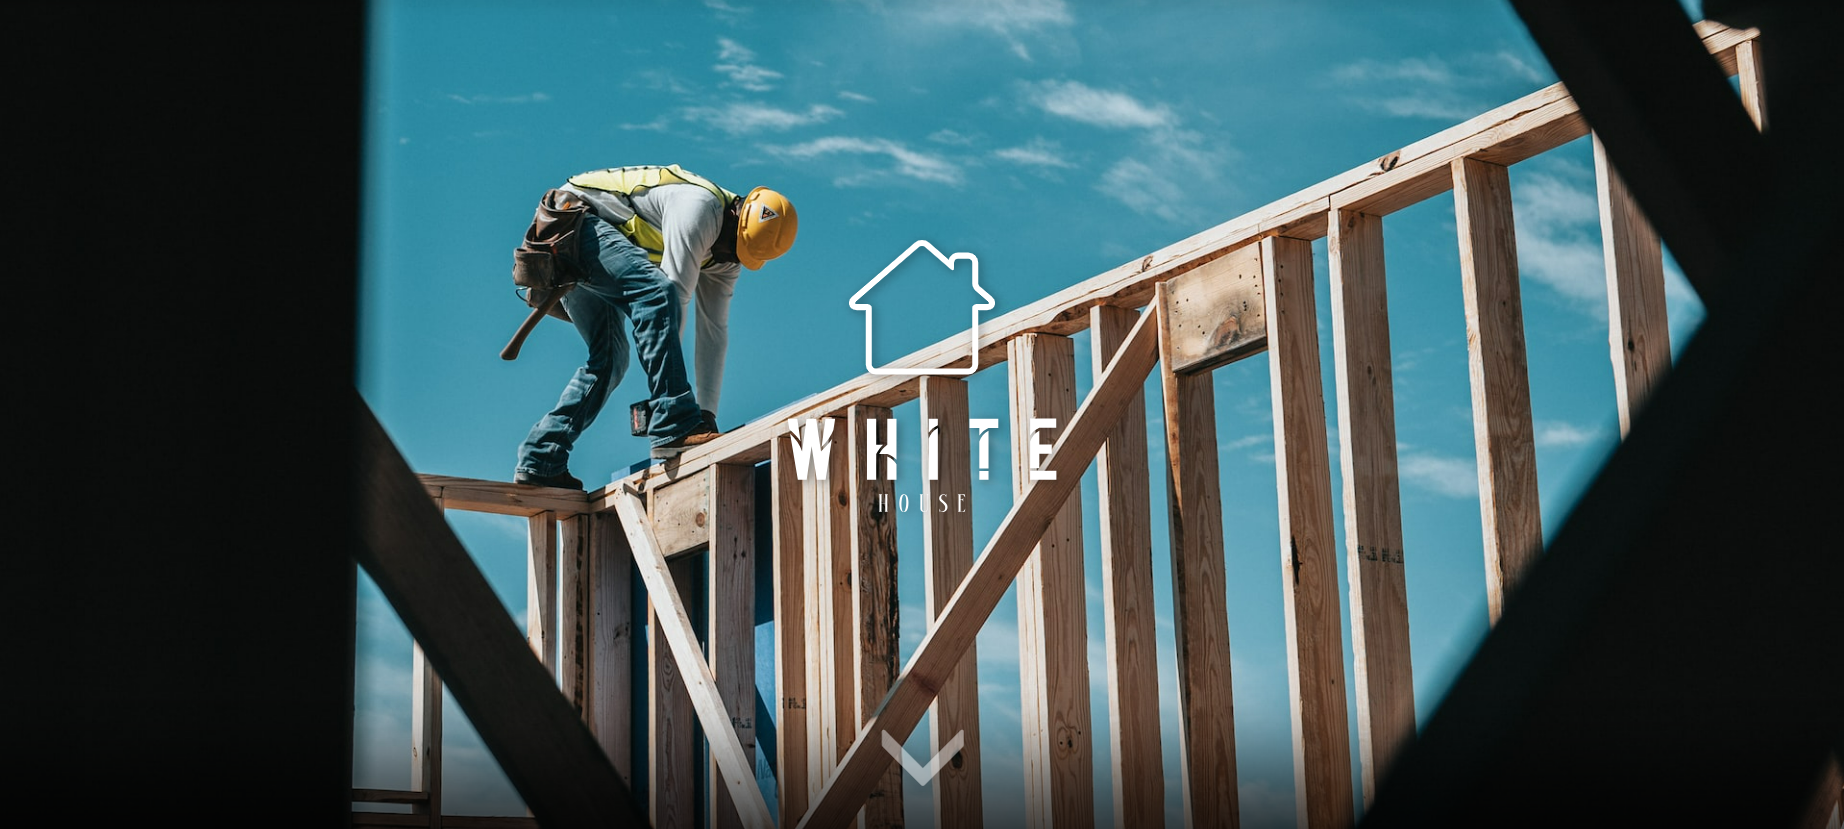
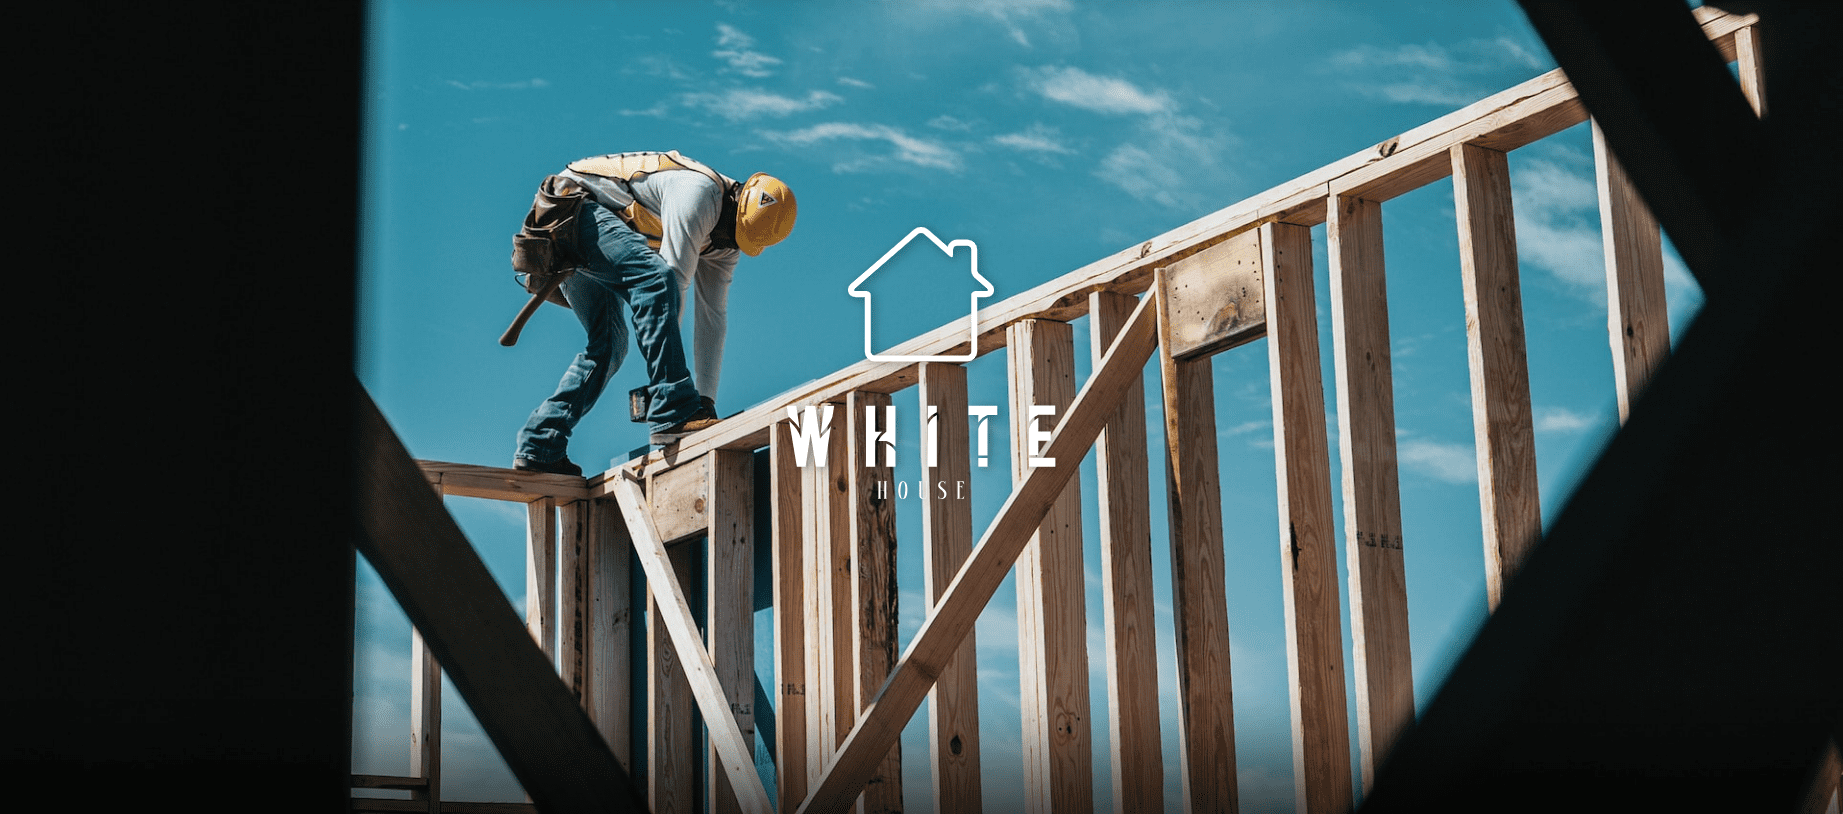
LP- Optimize images

diff --git a/src/components/pages/Slider.jsx b/src/components/pages/Slider.jsx
@@ -5,8 +5,11 @@ import { FaFacebookSquare, FaInstagram, FaWhatsapp } from 'react-icons/fa'
 import { Link } from 'react-scroll'
 
 import sl1 from '/assets/images/sliders/slider-1.png'
+import slm1 from '/assets/images/sliders/slider-mobile-1.png'
 import sl2 from '/assets/images/sliders/slider-2.png'
+import slm2 from '/assets/images/sliders/slider-mobile-2.png'
 import sl3 from '/assets/images/sliders/slider-3.png'
+import slm3 from '/assets/images/sliders/slider-mobile-3.png'
 
 function Slider () {
   return (
@@ -26,7 +29,10 @@ function Slider () {
         transitionTime={800}
       >
         <div>
-          <img src={sl1} alt='slider 1' />
+          <picture>
+            <source media='(max-width: 600px)' srcSet={slm1} />
+            <img src={sl1} alt='slider 1' />
+          </picture>
           <div className='slider-redes'>
             <Link
               to='contact'
@@ -58,7 +64,10 @@ function Slider () {
         </div>
 
         <div>
-          <img src={sl2} alt='slider 2' />
+          <picture>
+            <source media='(max-width: 600px)' srcSet={slm2} />
+            <img src={sl2} alt='slider 2' />
+          </picture>
           <div className='slider-redes'>
             <Link
               to='contact'
@@ -90,7 +99,10 @@ function Slider () {
         </div>
 
         <div>
-          <img src={sl3} alt='slider 3' />
+          <picture>
+            <source media='(max-width: 600px)' srcSet={slm3} />
+            <img src={sl3} alt='slider 3' />
+          </picture>
           <div className='slider-redes'>
             <Link
               to='contact'

diff --git a/src/App.css b/src/App.css
@@ -28,6 +28,10 @@ body {
   font-size: large;
 }
 
+.carousel .control-dots {
+  margin: 2rem 0;
+}
+
 .carousel .control-dots .dot.selected{
   background: #ff7f32;
   outline: none;
@@ -91,21 +95,14 @@ body {
   .slider-button{
     font-size: 1.2rem;
     padding: 5px 12px;
+    margin-top: 65%;
   }
-  #info-1{
-    margin-top: 74%;
-  }
-  #info-2{
 
-  }
-  #info-3{
-    margin-top: 76%;
-  }
   .slider-icon-redes {
     display: none;
   }
   .carousel .control-dots {
-    margin: 5px 0;
+    margin: 1rem 0;
   }
   .carousel-slider .control-dots{
     bottom: 0px !important;

diff --git a/README.md b/README.md
@@ -1,5 +1,9 @@
 # React + Vite
 
--comandos para correr proyecto
-npm install
-npm run dev
+
+## Libreria para gallery Modal
+https://yet-another-react-lightbox.com/
+
+## comandos para correr proyecto
+- npm install
+- npm run dev
